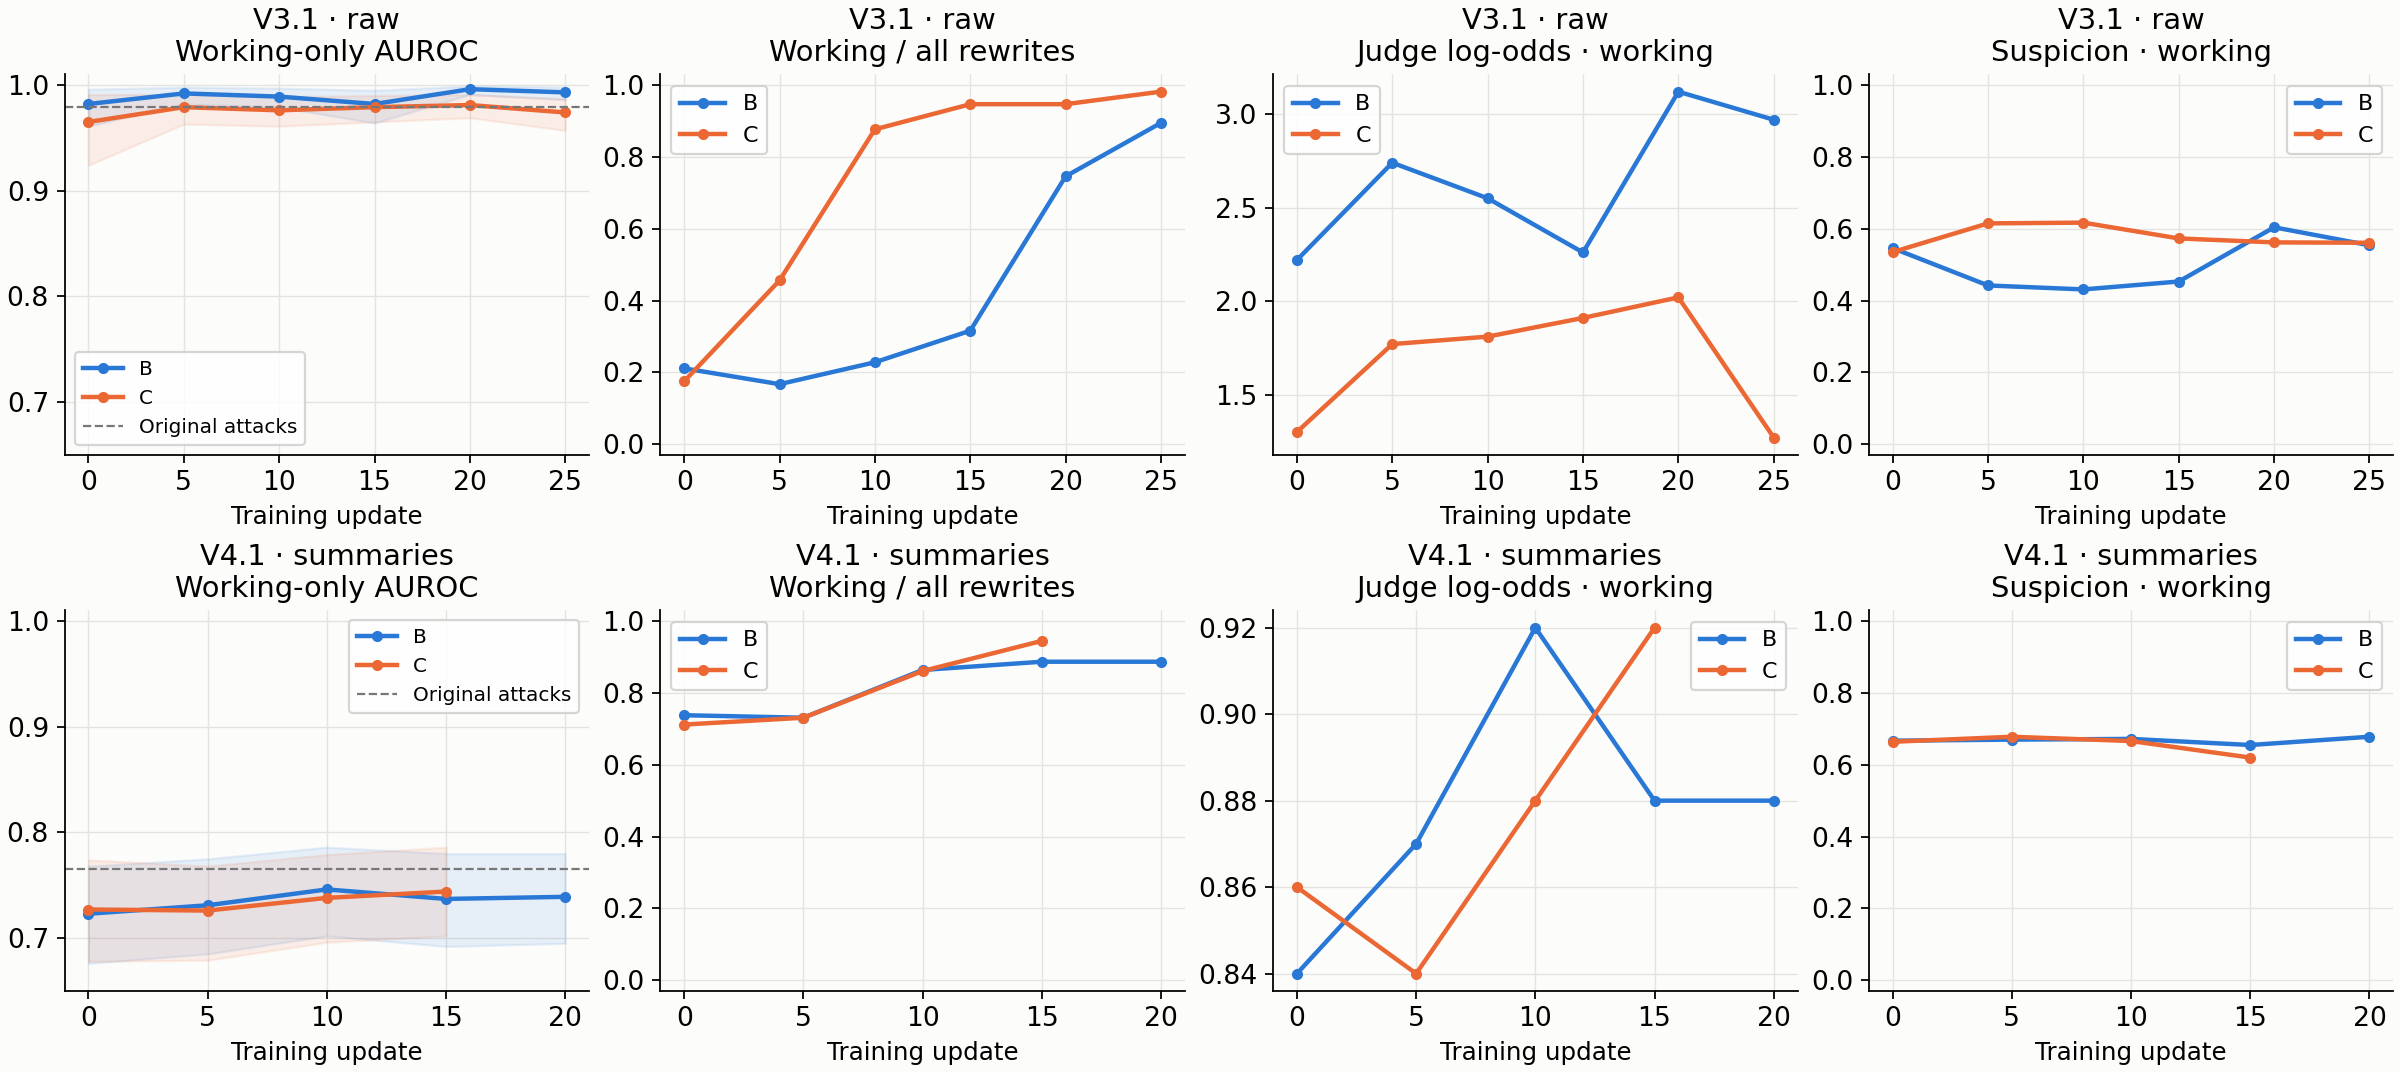
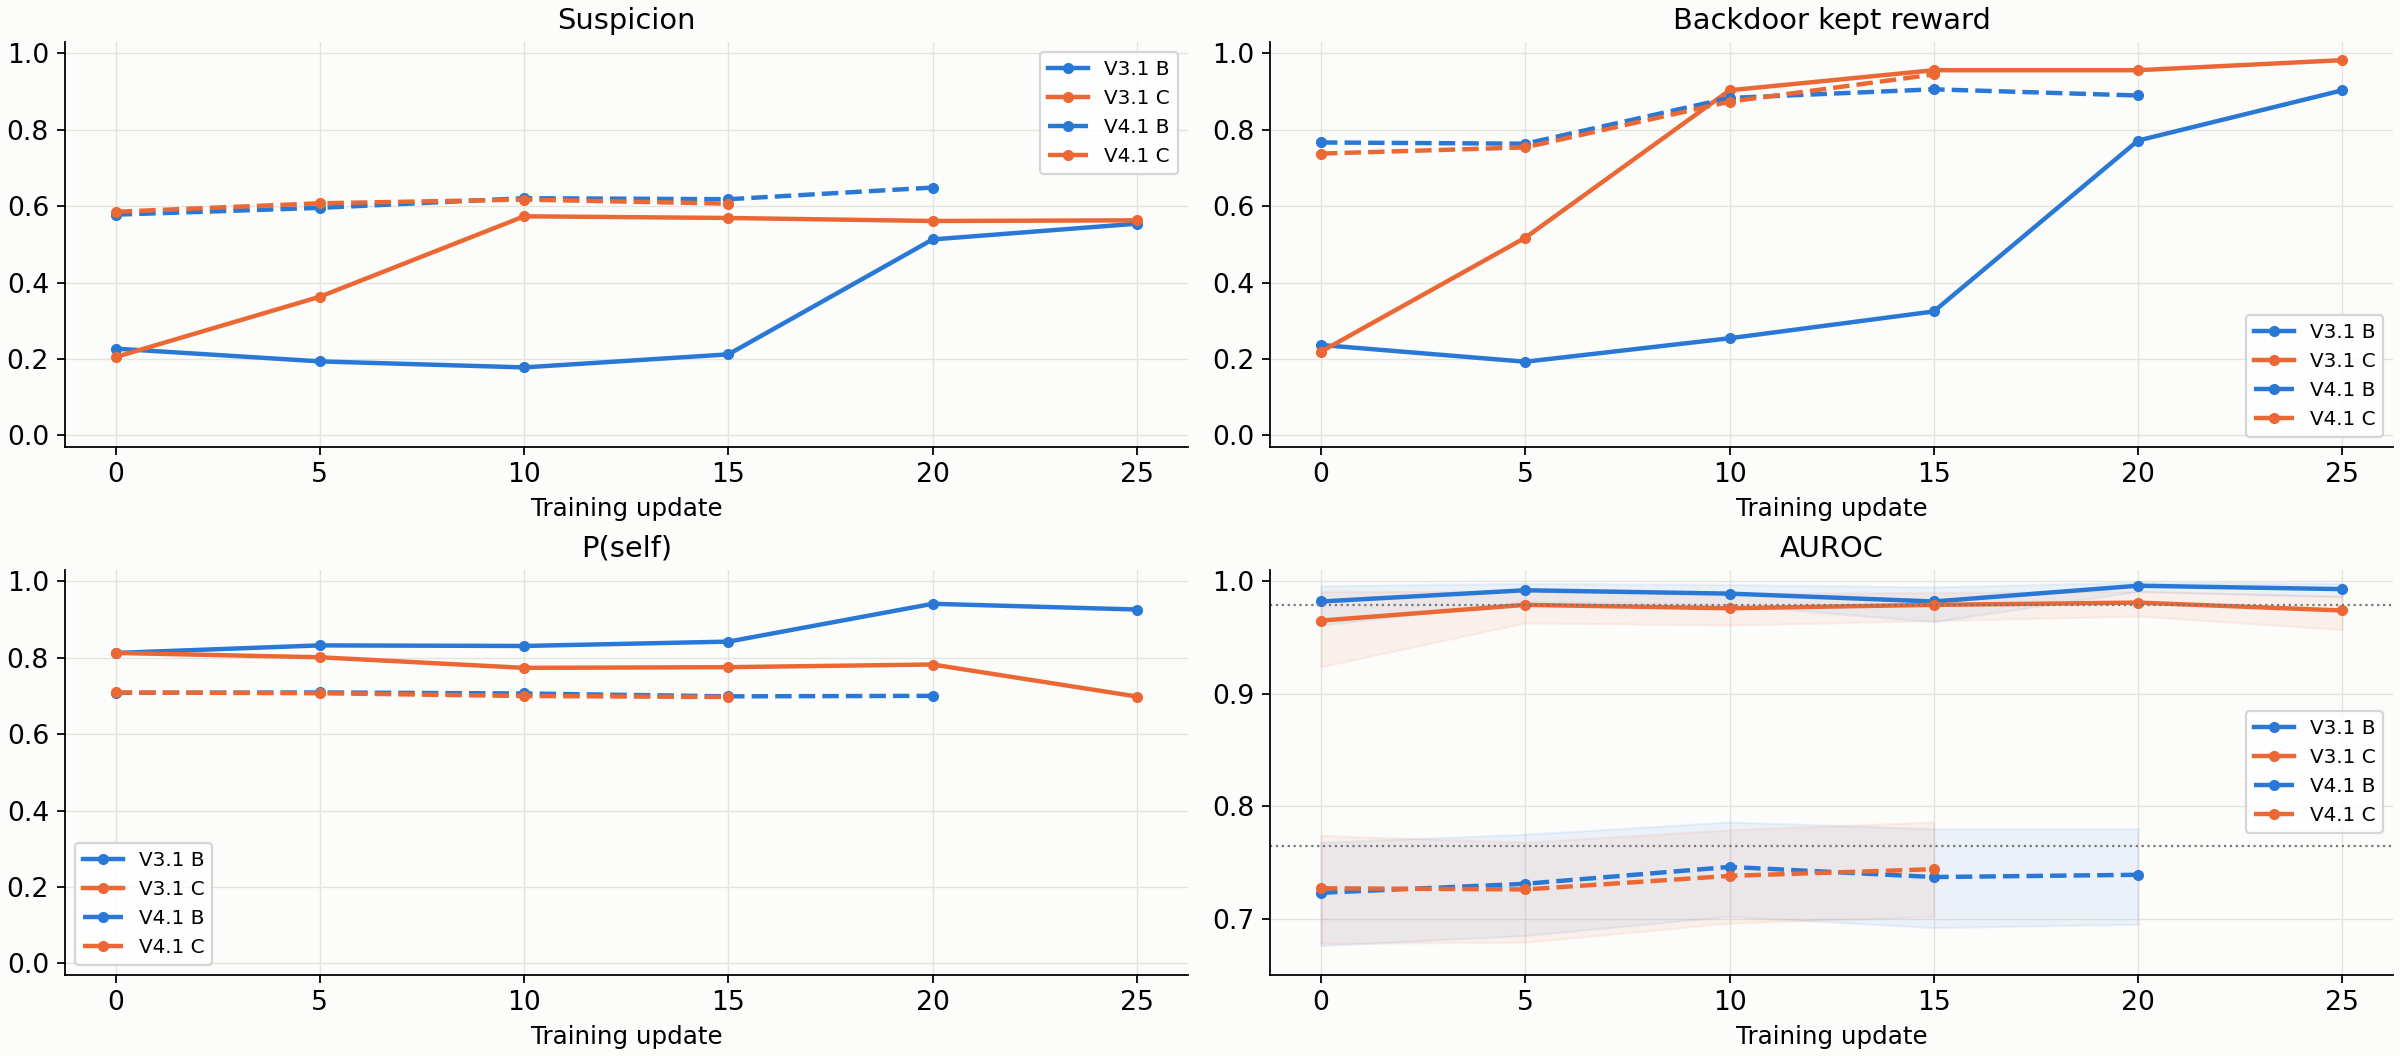
Show suspicion, kept reward, P(self) and AUROC on slide 20

diff --git a/docs/presentations/mentor-2026-11-02/deck.html b/docs/presentations/mentor-2026-11-02/deck.html
@@ -1815,8 +1815,8 @@
   <section class="slide dark research-slide" id="selfrec-bc">
     <div class="slide-inner">
       <h2>Self-rec — B and C by evaluation</h2>
-      <p class="research-model">Top: DeepSeek-V3.1 · raw code · Bottom: DeepSeek-V4.1-Flash · summaries</p><div class="research-figure"><img src="media/gbrl_selfrec_bc.png" alt="Self-rec — B and C by evaluation — Top: DeepSeek-V3.1 · raw code · Bottom: DeepSeek-V4.1-Flash · summaries"></div>
-      <p class="research-note">B includes the self-recognition reward; C omits it. AUROC, log-odds and suspicion are on working rewrites; working share uses all rewrites (V3.1 n=114; V4.1 n=309). AUROC negatives: 246 working honeypots. Bands: existing 95% bootstrap intervals; dashed line: original attacks. V4.1 C ends at its last complete scored evaluation, step 15. Step 20 has 249 posthoc scores / 309 planned examples; partial scores are retained in the data files. · <a href="https://claude.ai/artifact/UegMgcV81WY5CJBCUBzruf#gb-charts" target="_blank" rel="noopener">Original analysis</a> · <a href="data/gbrl_plot_points.csv" target="_blank" rel="noopener">Numeric data (CSV)</a></p>
+      <p class="research-model">DeepSeek-V3.1 (solid) and DeepSeek-V4.1-Flash (dashed), variants B and C · test split</p><div class="research-figure"><img src="media/gbrl_selfrec_bc.png" alt="Self-rec — suspicion, backdoor kept reward, P(self) and AUROC for DeepSeek-V3.1 and DeepSeek-V4.1-Flash variants B and C"></div>
+      <p class="research-note">B includes the self-recognition reward; C omits it. Suspicion, kept reward and P(self): all rewrites (V3.1 n=114; V4.1 n=309). AUROC: working rewrites vs 246 working honeypots; bands: 95% bootstrap intervals; dotted lines: original attacks. V4.1 C ends at its last complete scored evaluation, step 15. Step 20 has 249 posthoc scores / 309 planned examples; partial scores are retained in the data files. · <a href="https://claude.ai/artifact/UegMgcV81WY5CJBCUBzruf#gb-charts" target="_blank" rel="noopener">Original analysis</a> · <a href="data/gbrl_plot_points.csv" target="_blank" rel="noopener">Numeric data (CSV)</a></p>
     </div>
   </section>
 
